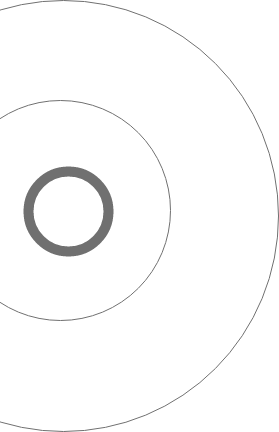
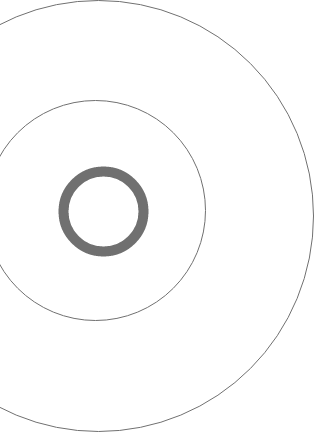
Added Semi right circle in about us

diff --git a/src/Components/HomePageSections/AboutUs/about.homepage.section.js b/src/Components/HomePageSections/AboutUs/about.homepage.section.js
@@ -7,7 +7,7 @@ export default function AboutUsHome() {
     return (
         <>
             <Row className="about-home-section">
-                <Col span={12}>
+                <Col span={12} className="about-us-home-section">
                     <p className="about-us-home-word">About us</p>
                     <h2 className="about-us-home-title">Naturlamb 1880 (history)</h2>
                     <p className='info-sec'>
@@ -25,6 +25,7 @@ export default function AboutUsHome() {
                 <Col span={12}>
                     <img className="about-bg-image" src="/images/home/Path12.png" alt='' />
                 </Col>
+                <img src='/images/home/about-us-icons/right.png' alt='' className='semi-circle-home'/>
             </Row>
         </>
     );

diff --git a/src/Components/HomePageSections/AboutUs/about.homepage.style.css b/src/Components/HomePageSections/AboutUs/about.homepage.style.css
@@ -26,8 +26,27 @@
     /* make capital */
     text-transform: uppercase;
     color: green;
+    font-family: 'Cairo';
+    /* make semi bold */
+    font-weight: 600;
 }
 
 .about-us-home-title {
     font-family: 'Cairo';
+}
+
+.semi-circle-home {
+    position: absolute;
+    right: 0;
+    top: -30%;
+}
+
+
+.about-us-home-section {
+    position: relative;
+    left: 10%;
+}
+
+.about-home-section {
+    position: relative;
 }

diff --git a/src/Views/Home/home.view.js b/src/Views/Home/home.view.js
@@ -34,7 +34,7 @@ export default function Home() {
                         <CardsView />
                     </div>
                     <br /> <br /> <br />
-                    <div className='about-us'>
+                    <div className='about-us-home'>
                         <AboutUsHome />
                     </div>
                     <br /> <br /> <br />

diff --git a/src/Views/Home/home.style.css b/src/Views/Home/home.style.css
@@ -6,9 +6,6 @@
     min-height: 380px;
 }
 
-.cards-view {
-    /* padding: 9em auto 0 auto; */
-}
 
 .home-page-layout {
     background-color: white;
@@ -23,4 +20,8 @@
     width: 50%;
     height: 15em;
     background-color: #c5f7de;
+}
+
+.products-home {
+    margin-top: 10em;
 }

diff --git a/src/Views/About/about.style.css b/src/Views/About/about.style.css
@@ -7,7 +7,6 @@ body{
     background-image: url("/images/aboutUs/headp.png");
 }
 .about-us {
-    width: 90%;
     margin: 9em auto 0 auto;
 }
 
